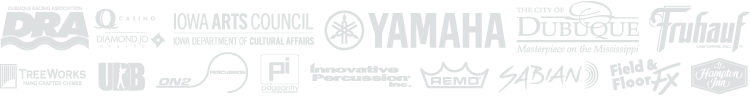
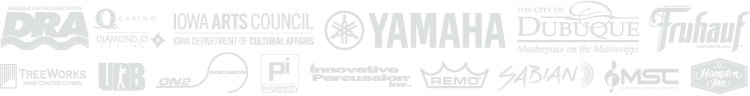
Jeff updating sponsors

Changed region(s): [[0.6747, 0.625, 0.92, 1.0]]

diff --git a/links.html b/links.html
@@ -100,14 +100,14 @@ printImage();
                 	<ul>
                     	<li><a href="http://www.yamaha.com/band" target="_blank">Yamaha Corporation of America</a></li>
                         <li><a href="http://www.fruhauf.com" target="_blank">Fruhauf Uniforms</a></li>
-                        <li><a href="http://www.remo.com/" target="_blank">Remo</a></li>
+                        <li><a href="http://ultimatedrillbook.com" target="_blank">Ultimate Drill Book</a></li>
+                        <li><a href="http://www.remo.com" target="_blank">Remo</a></li>
                         <li><a href="http://www.innovativepercussion.com/default.asp" target="_blank">Innovative Percussion</a></li>
                         <li><a href="http://www.sabian.com" target="_blank">Sabian</a></li>
-                        <li><a href="http://www.fieldandfloorfx.com/" target="_blank">Field & Floor FX</a></li>
-                        <li><a href="http://pageantryinnovations.com/" target="_blank">Pageantry Innovations</a></li>
-                        <li><a href="https://www.on2percussion.com/" target="_blank">ON2 Percussion</a></li>
                         <li><a href="http://www.treeworkschimes.com" target="_blank">Tree Works Chimes</a></li>
-                        <li><a href="http://ultimatedrillbook.com" target="_blank">Ultimate Drill Book</a></li>
+                        <li><a href="https://www.on2percussion.com" target="_blank">ON2 Percussion</a></li>
+                        <li><a href="http://pageantryinnovations.com" target="_blank">Pageantry Innovations</a></li>
+                        <li><a href="https://msconcepts.com" target="_blank">Marching Show Concepts</a></li>
                     </ul>
             </div>
 
@@ -133,7 +133,7 @@ printImage();
                     	<li><a href="http://www.dci.org" target="_blank">Drum Corps International</a></li>
                         <li><a href="http://www.dubuquechamber.com" target="_blank">Dubuque Area Chamber of Commerce</a></li>
                         <li><a href="http://www.drumcorpsworld.com" target="_blank">Drum Corps World</a></li>
-                        <li><a href="http://www.corpsreps.com/" target="_blank">CorpsReps</a></li>
+                        <li><a href="http://www.dcxmuseum.org" target="_blank">DCX (formerly CorpsReps)</a></li>
                         <li><a href="http://www.drumcorpsplanet.com" target="_blank">Drum Corps Planet</a></li>
                         <li><a href="http://store-colts-org.3dcartstores.com" target="_blank">Colts Mall</a></li>
                         <!-- <li><a href="media.html" target="_blank">Colts Multimedia Archive</a></li> -->
